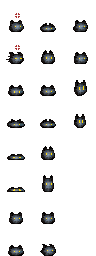
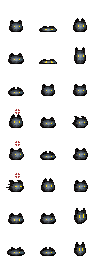
Fixed botomon attack hitbox not showing up

diff --git a/src/entities/digimon/DigimonProfiles.js b/src/entities/digimon/DigimonProfiles.js
@@ -12,17 +12,17 @@ export const DIGIMON_PROFILES = {
       main: {
         type: "melee",
         anim: "attack-A",
-        power: 2,
-        fireFrames: [0], // active hit window
+        power: 0.5,
+        fireFrames: [5], // active hit window
         hitbox: {
           width: 32,
           height: 48,
-          offsetX: 15,
+          offsetX: 26,
           offsetY: -10,
-          // statusEffect: "burn",
+          statusEffect: "burn",
           duration: 80, // per-frame lifetime
         },
-        cooldown: 100,
+        cooldown: 10,
       },
       skill1: {
         type: "projectile",
@@ -33,13 +33,13 @@ export const DIGIMON_PROFILES = {
           texture: "fireball",
           anim: "fireball_fly",
           speed: 220,
-          offsetX: 26,
-          offsetY: 20,
+          offsetX: 13,
+          offsetY: 9,
           lifetime: 1900,
           statusEffect: "burn",
           hitReaction: "launch",
         },
-        fireFrame: 0,
+        fireFrame: 5,
         cooldown: 800,
       },
     },
@@ -172,7 +172,7 @@ export const DIGIMON_PROFILES = {
       main: {
         type: "melee",
         anim: "attack-A",
-        power: 0.2,
+        power: 0.5,
         fireFrames: [2], // active hit window
         hitbox: {
           width: 9,
@@ -187,7 +187,7 @@ export const DIGIMON_PROFILES = {
       skill1: {
         type: "melee",
         anim: "attack-B",
-        power: 0.2,
+        power: 0.5,
         fireFrames: [2], // active hit window
         hitbox: {
           width: 11,

diff --git a/src/systems/level/TilemapLoader.js b/src/systems/level/TilemapLoader.js
@@ -7,7 +7,7 @@ export function loadTilemap(scene, tilemapConfig) {
 
   const tilesets = [];
 
-  tilemapConfig.tilesets.forEach((ts) => {
+  tilemapConfig?.tilesets?.forEach((ts) => {
     const tileset = map.addTilesetImage(ts.name, ts.imageKey);
     if (tileset) tilesets.push(tileset);
   });
@@ -17,7 +17,7 @@ export function loadTilemap(scene, tilemapConfig) {
   // ===============================
   // TILED BACKGROUND (always above parallax)
   // ===============================
-  if (tilemapConfig.backgroundLayer) {
+  if (tilemapConfig?.backgroundLayer) {
     const bg = map.createLayer(tilemapConfig.backgroundLayer, tilesets, 0, 0);
     bg.setDepth(-5);
     layers.backgroundLayer = bg;
@@ -26,7 +26,7 @@ export function loadTilemap(scene, tilemapConfig) {
   // ===============================
   // MIDGROUND (props ordering)
   // ===============================
-  if (tilemapConfig.midgroundLayer) {
+  if (tilemapConfig?.midgroundLayer) {
     const mid = map.createLayer(tilemapConfig.midgroundLayer, tilesets, 0, 0);
     mid.setDepth(0);
     layers.midgroundLayer = mid;
@@ -49,7 +49,7 @@ export function loadTilemap(scene, tilemapConfig) {
   // ===============================
   // FOREGROUND (over player)
   // ===============================
-  if (tilemapConfig.foregroundLayer) {
+  if (tilemapConfig?.foregroundLayer) {
     const fg = map.createLayer(tilemapConfig.foregroundLayer, tilesets, 0, 0);
     fg.setDepth(20);
     layers.foregroundLayer = fg;
